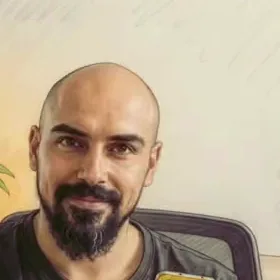
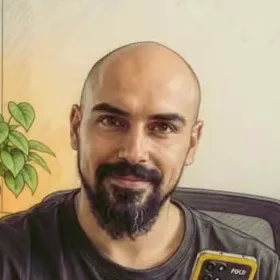
Final: foto centrada de verdad, circulo alineado arriba, mas aire bajo el titulo

diff --git a/index.html b/index.html
@@ -221,7 +221,7 @@
     <div class="wrap wrap--estrecho">
       <h2 id="t-final">¿Hablamos de tu web?</h2>
       <div class="chat">
-        <img src="assets/img/marco-chat.webp?v=2" alt="Marco" width="72" height="72" loading="lazy">
+        <img src="assets/img/marco-chat.webp?v=3" alt="Marco" width="72" height="72" loading="lazy">
         <p class="burbuja">Escríbeme por WhatsApp y cuéntame qué negocio tienes. Te preparo tu demo gratis, sin compromiso.<strong>— Marco</strong></p>
       </div>
       <p class="final__cta"><a class="btn btn--lima" href="https://wa.me/34633548224?text=Hola%20Marco%2C%20me%20gustar%C3%ADa%20pedir%20la%20demo%20gratuita%20para%20mi%20negocio." target="_blank" rel="noopener"><svg viewBox="0 0 24 24" fill="none" stroke="currentColor" stroke-width="1.5" stroke-linecap="round" stroke-linejoin="round" aria-hidden="true"><path d="M17 12.5C17.2761 12.5 17.5 12.2761 17.5 12C17.5 11.7239 17.2761 11.5 17 11.5C16.7239 11.5 16.5 11.7239 16.5 12C16.5 12.2761 16.7239 12.5 17 12.5Z" fill="currentColor"/><path d="M12 12.5C12.2761 12.5 12.5 12.2761 12.5 12C12.5 11.7239 12.2761 11.5 12 11.5C11.7239 11.5 11.5 11.7239 11.5 12C11.5 12.2761 11.7239 12.5 12 12.5Z" fill="currentColor"/><path d="M7 12.5C7.27614 12.5 7.5 12.2761 7.5 12C7.5 11.7239 7.27614 11.5 7 11.5C6.72386 11.5 6.5 11.7239 6.5 12C6.5 12.2761 6.72386 12.5 7 12.5Z" fill="currentColor"/><path d="M12 22C17.5228 22 22 17.5228 22 12C22 6.47715 17.5228 2 12 2C6.47715 2 2 6.47715 2 12C2 13.8214 2.48697 15.5291 3.33782 17L2.5 21.5L7 20.6622C8.47087 21.513 10.1786 22 12 22Z"/></svg>Pedir mi demo gratis</a></p>

diff --git a/assets/css/muestra.css b/assets/css/muestra.css
@@ -157,12 +157,12 @@ a{color:var(--verde)}
 
 /* cta final */
 .seccion--verde{background:var(--verde);color:var(--papel);text-align:center}
-.seccion--verde h2{color:var(--papel)}
+.seccion--verde h2{color:var(--papel);margin-bottom:2.2rem}
 .seccion--verde .eyebrow{color:var(--lima)}
 .seccion--verde .wrap>p:last-child{margin-top:2rem}
 
 /* final: mensaje personal de Marco */
-.chat{display:flex;gap:.9rem;align-items:center;text-align:left;max-width:26rem;margin:0 auto 1.8rem}
+.chat{display:flex;gap:.9rem;align-items:flex-start;text-align:left;max-width:26rem;margin:0 auto 1.8rem}
 .chat img{width:72px;height:72px;border-radius:50%;object-fit:cover;border:3px solid var(--lima);flex:none}
 .burbuja{background:var(--papel);color:var(--tinta);border-radius:4px 18px 18px 18px;padding:1rem 1.15rem;margin:0 1.25rem 0 0;font-size:1.02rem;line-height:1.55;box-shadow:0 8px 22px rgba(0,0,0,.18)}
 .burbuja strong{display:block;margin-top:.5rem;font-size:.88rem;color:var(--verde)}
